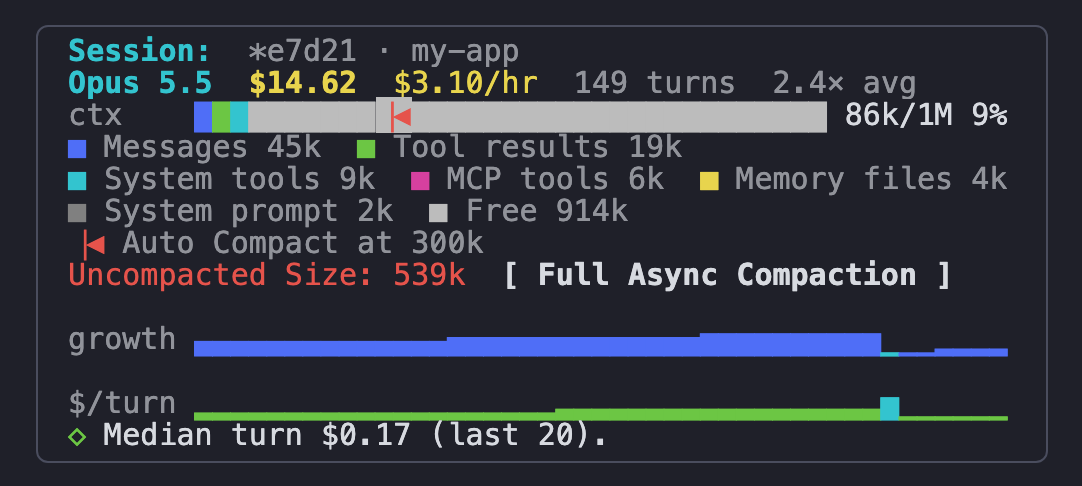
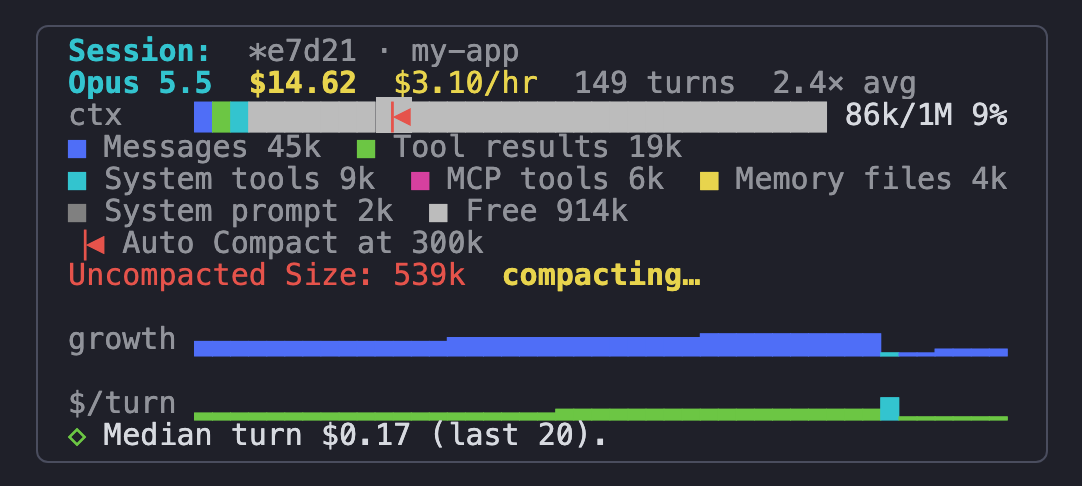
Uncompacted Size: compacting… beside it while a compaction runs, in place of the Full Async Compaction button, whose looping band read as a compaction always running (usage-panel mod 1.20.0)
Burst's burst-session mod compacts Claude Code's own history by itself at
800k; /compact-async-full stays for doing it by hand.

Changed region(s): [[0.4575, 0.5247, 0.8845, 0.6173]]

diff --git a/mods/usage-panel/hooks/register.js b/mods/usage-panel/hooks/register.js
@@ -67,9 +67,7 @@ let up = false
 // It was opened and waits undrawn, on a terminal too narrow for a sidebar
 // nobody asked for: it is up once it is first drawn.
 let waiting = false
-let fullDrawn = false // the Full Async Compaction button was on the last drawing
-let frame = 0 // the shimmer's, across that button's label
-let ticking = null // the shimmer's timer, while the button is drawn
+let compacting = false // a compaction of this session's history is running
 let layout = null // { order, hidden } as the person left it
 let burst = null // { down, mod }: Burst's /api/mod answer; null without Burst
 let burstRaw = ''
@@ -156,6 +154,23 @@ export function register(on) {
       }
     }
     return next(e)
+  })
+
+  // A compaction of the main conversation, from the moment it starts until
+  // it stands or is skipped: "compacting…" beside Uncompacted Size for that
+  // long and no longer. Burst's hand-off at 800k (burst-session) comes
+  // through here as Claude Code's /compact. A precompute installs nothing,
+  // and a subagent's is its own transcript.
+  on('session.compact', async ($, e, next) => {
+    if (e.trigger === 'precompute' || e.agentId) return next(e)
+    compacting = true
+    $.ui.invalidate('ui.render')
+    try {
+      return await next(e)
+    } finally {
+      compacting = false
+      $.ui.invalidate('ui.render')
+    }
   })
 
   // Closed by the person's own close mark or key too: the button above the
@@ -264,17 +279,9 @@ export function register(on) {
         },
       }))
     }
-    // Beside Uncompacted Size, where Claude Code holds half the window or
-    // more: Burst's /compact-async-full, pressed.
-    // A function, so that drawing it is known: the shimmer's timer runs only
-    // while the button is on the sidebar.
-    fullDrawn = false
-    const full = () => {
-      fullDrawn = true
-      shimmerOn($)
-      return Button({ key: 'usage-full-compact', label: FULL_LABEL, onPress: () => fullCompact($), children: shimmer(Text, FULL_LABEL, frame) })
-    }
-    const rows = panel(Box, Text, data, width, now, feedError, layout, extras, burst, limits, extra, full)
+    // Beside Uncompacted Size while a compaction runs, and only then.
+    const busy = compacting ? Text({ color: 'yellow', bold: true, children: [COMPACTING] }) : null
+    const rows = panel(Box, Text, data, width, now, feedError, layout, extras, burst, limits, extra, busy)
     // At the top right, where a close mark is looked for. The button above
     // the prompt brings the sidebar back.
     const top = Box({ flexDirection: 'row', justifyContent: 'flex-end', children: [Button({ key: 'usage-hide', label: 'Hide', role: 'dismiss', onPress: () => hidePane($) })] })
@@ -290,55 +297,7 @@ async function showPane($) {
   $.ui.invalidate('ui.render')
 }
 
-// Burst's /compact-async-full: Claude Code's own history replaced with the
-// summary Burst already wrote, no summary request and no pause. The command
-// is Burst's mod's (burst-session), and says for itself when it has nothing
-// to hand over.
-const FULL_COMMAND = 'compact-async-full'
-const FULL_LABEL = 'Full Async Compaction'
-
-// The button's label with a bright band crossing it, so that it is seen: it
-// is only there when there is something worth pressing it for. `frame` counts
-// the timer's ticks; the band is off the label for SHIMMER_REST of them
-// between crossings.
-const SHIMMER_MS = 120
-const SHIMMER_BAND = 3
-const SHIMMER_REST = 8
-export function shimmer(Text, label, frame) {
-  const head = frame % (label.length + SHIMMER_BAND + SHIMMER_REST)
-  const from = Math.max(0, head - SHIMMER_BAND)
-  const to = Math.min(label.length, head)
-  const base = { color: 'yellow', bold: true }
-  const out = []
-  if (from > 0) out.push(Text({ ...base, children: [label.slice(0, from)] }))
-  if (to > from) out.push(Text({ ...base, inverse: true, children: [label.slice(from, to)] }))
-  if (to < label.length) out.push(Text({ ...base, children: [label.slice(to)] }))
-  return out
-}
-
-// Redraws the sidebar a frame on while the button is drawn, and stops once a
-// frame has passed without it: the sidebar closed, or less held than the
-// button is drawn from.
-function shimmerOn($) {
-  if (ticking) return
-  ticking = $.clock.every(SHIMMER_MS, () => {
-    if (!fullDrawn || !up) {
-      ticking.cancel()
-      ticking = null
-      return
-    }
-    fullDrawn = false
-    frame++
-    $.ui.invalidate('ui.render')
-  })
-}
-async function fullCompact($) {
-  try {
-    await $.command.run({ command: FULL_COMMAND, args: '' })
-  } catch (err) {
-    $.ui.toast('/' + FULL_COMMAND + ' did not run: it is Claude Burst\'s mod\'s command (' + err + ')')
-  }
-}
+export const COMPACTING = 'compacting…'
 
 // Whether the sidebar is drawn, from what $.ui.open answered: not when it
 // waits undrawn, on a terminal too narrow for one nobody asked for.
@@ -698,7 +657,7 @@ const TIER = { green: 'green', yellow: 'yellow', red: 'red', purple: 'magenta', 
 const ACCENT = 'cyan'
 const BLOCKS = ' ▁▂▃▄▅▆▇█'
 
-export function panel(Box, Text, d, width, now, feedError, layout, extras = [], burst = null, limits = null, extra = null, full = null) {
+export function panel(Box, Text, d, width, now, feedError, layout, extras = [], burst = null, limits = null, extra = null, busy = null) {
   const T = (children, props = {}) => Text({ ...props, children: Array.isArray(children) ? children : [children] })
   const rows = []
   if (!d) {
@@ -731,7 +690,7 @@ export function panel(Box, Text, d, width, now, feedError, layout, extras = [], 
   // one ends and the next starts is plain. The border and padding take 4.
   const IW = Math.max(26, W - 4)
   const draw = {
-    session: () => [...sessionSection(Box, T, d, IW, burst, extra && extra.warn, full), ...notes('session'), ...notes('burst')],
+    session: () => [...sessionSection(Box, T, d, IW, burst, extra && extra.warn, busy), ...notes('session'), ...notes('burst')],
     mac: () => {
       const foot = [...footer(Box, T, d), ...burstRows(Box, T, burst), ...extras]
       return foot.length > 0 ? [heading(T, 'This Mac'), ...foot] : []
@@ -793,7 +752,7 @@ function colourer() {
 
 // ---- this session
 
-function sessionSection(Box, T, d, W, burst, warnPct, full) {
+function sessionSection(Box, T, d, W, burst, warnPct, busy) {
   const s = d.session || {}
   // A long folder loses its start, not its end: the end is what tells two
   // repos apart.
@@ -825,7 +784,7 @@ function sessionSection(Box, T, d, W, burst, warnPct, full) {
   // compaction lines marked. Otherwise the
   // panel's gauge against the model's window, its colour thresholds as ticks.
   if (sent) {
-    out.push(...sentBar(Box, T, sent, W, s.win || 0, warnPct, full))
+    out.push(...sentBar(Box, T, sent, W, s.win || 0, warnPct, busy))
     if (s.compacting) out.push(T('  ⟳ a summary is ready: the next prompt compacts', { color: 'cyan' }))
     else if (sent.state === 'warning') out.push(T('! Close to the limit: ' + limitLabel(sent) + '.', { color: 'yellow', wrap: 'wrap' }))
     // "compacted" is not said: it stays for the rest of the session and the
@@ -938,7 +897,7 @@ function limitNote(s) {
 // not the room there is), a legend under it, and
 // what Claude Code itself still holds when that is more. Without a window
 // the bar is against the compaction limit alone.
-function sentBar(Box, T, s, W, win, warnPct, full) {
+function sentBar(Box, T, s, W, win, warnPct, busy) {
   const limit = compactAt(s)
   const warn = limit ? Math.round((limit * (warnPct > 0 && warnPct < 100 ? warnPct : 80)) / 100) : 0
   const whole = win > limit && win >= s.context
@@ -1011,8 +970,7 @@ function sentBar(Box, T, s, W, win, warnPct, full) {
   const held = Math.max(s.raw || 0, s.context || 0)
   if (held > 0) {
     const size = T('Uncompacted Size: ' + k(held), { color: heldColour(s, held) })
-    // The button only where there is enough held for it to be worth a press.
-    if (full && win > 0 && held >= win * FULL_FROM) out.push(Box({ flexDirection: 'row', flexWrap: 'wrap', columnGap: 2, children: [size, typeof full === 'function' ? full() : full] }))
+    if (busy) out.push(Box({ flexDirection: 'row', flexWrap: 'wrap', columnGap: 2, children: [size, busy] }))
     else out.push(size)
   }
   return out
@@ -1041,10 +999,6 @@ export function share(amounts, width) {
   }
   return out
 }
-
-// The share of the model's window Claude Code must hold before the Full
-// Async Compaction button is drawn beside Uncompacted Size.
-const FULL_FROM = 0.5
 
 // Where Burst's mod (burst-session, HANDOFF_AT) compacts a session opened
 // again with the summary Burst already wrote.

diff --git a/mods/usage-panel/tests/usage-panel.test.ts b/mods/usage-panel/tests/usage-panel.test.ts
@@ -1,5 +1,5 @@
 import { expect, mock, test } from 'claude-code/testing'
-import { axis, insights, k, layoutOf, limitsOf, modelName, money, pie, planOf, relayout, share, shimmer, weekGone, whyDear } from '../hooks/register.js'
+import { axis, insights, k, layoutOf, limitsOf, modelName, money, pie, planOf, relayout, share, weekGone, whyDear } from '../hooks/register.js'
 
 const PANE = {
   plugin: 'usage-panel',
@@ -1253,48 +1253,29 @@ test('while the sidebar is closed the line under the prompt names the command th
   expect(tails[tails.length - 1]).toBeUndefined()
 })
 
-test('Full Async Compaction is beside Uncompacted Size from half the window held, and runs Burst\'s /compact-async-full', async ($, on) => {
-  const clock = stubs(on, [doc({ burst: BURST })])
-  // 620k held of a 1M window, Burst sending 70k.
-  let answer: object = mod()
-  on('http.fetch', () => ({ value: { status: 200, ok: true, headers: {}, text: JSON.stringify(answer) } }))
-  const ran: { command: string }[] = []
-  on('command.run', ($, e) => { ran.push(e); return { value: {} } })
+test('"compacting…" is beside Uncompacted Size while a compaction runs and only then, with no button at any size', async ($, on) => {
+  stubs(on, [doc({ burst: BURST })])
+  // 620k held of a 1M window, Burst sending 70k: more than half the window,
+  // where a button used to be drawn.
+  on('http.fetch', () => ({ value: { status: 200, ok: true, headers: {}, text: JSON.stringify(mod()) } }))
+  let done: (v: unknown) => void = () => {}
+  on('session.compact', () => new Promise((r) => { done = r }))
   await start($)
   let ui = await $.ui.mount(PANE)
   expect(await ui.find({ type: 'Text', text: 'Uncompacted Size: 620k' })).toBeDefined()
-  expect(await ui.find({ key: 'usage-full-compact' })).toBeDefined()
-  await ui.press({ key: 'usage-full-compact' })
-  expect(ran.map((e) => e.command)).toEqual(['compact-async-full'])
-  // A band crosses the label while it is drawn: three ticks on, its first
-  // three letters.
-  expect(await ui.find({ type: 'Text', text: 'Full Async Compaction' })).toBeDefined()
-  await clock.advance(360)
-  expect(await ui.find({ type: 'Text', text: 'Ful' })).toBeDefined()
-  expect(await ui.find({ type: 'Text', text: 'l Async Compaction' })).toBeDefined()
-  await ui.press({ key: 'usage-full-compact' })
-  expect(ran.length).toBe(2)
+  expect(await ui.find({ type: 'Text', text: 'compacting…' })).toBeUndefined()
+  expect(await ui.find({ type: 'Text', text: 'Full Async Compaction' })).toBeUndefined()
   await ui.unmount()
 
-  // Under half the window: the line alone.
-  answer = mod({ session: { session: 'S', context: 70_000, state: 'ok', compact_at: 300_000, raw: 480_000 } })
-  await clock.advance(5000)
+  const running = $.session.compact({ trigger: 'manual', messages: [{ role: 'user', text: 'hi', toolUses: [] }] })
+  await new Promise((r) => setTimeout(r, 0))
   ui = await $.ui.mount(PANE)
-  expect(await ui.find({ type: 'Text', text: 'Uncompacted Size: 480k' })).toBeDefined()
-  expect(await ui.find({ key: 'usage-full-compact' })).toBeUndefined()
-})
+  expect(await ui.find({ type: 'Text', text: 'compacting…' })).toBeDefined()
+  await ui.unmount()
 
-test('the shimmer is the whole label every frame, with a band of three crossing it and a rest between crossings', () => {
-  const T = (p) => p
-  const label = 'Full Async Compaction'
-  const lit = (f) => shimmer(T, label, f).filter((t) => t.inverse).map((t) => t.children[0]).join('')
-  for (let f = 0; f < 80; f++) expect(shimmer(T, label, f).map((t) => t.children[0]).join('')).toBe(label)
-  expect(lit(0)).toBe('')
-  expect(lit(1)).toBe('F')
-  expect(lit(3)).toBe('Ful')
-  expect(lit(21)).toBe('ion')
-  expect(lit(23)).toBe('n')
-  // Off the label until the next crossing, 32 frames after the first.
-  for (let f = 24; f <= 32; f++) expect(lit(f)).toBe('')
-  expect(lit(33)).toBe('F')
+  done({ messages: [{ role: 'user', text: 'summary', toolUses: [] }] })
+  await running
+  ui = await $.ui.mount(PANE)
+  expect(await ui.find({ type: 'Text', text: 'compacting…' })).toBeUndefined()
+  await ui.unmount()
 })

diff --git a/README.md b/README.md
@@ -54,7 +54,7 @@ This came out of a simple problem: AI coding agents burn tokens and money per tu
 > What needs Claude Burst, and is left out without it:
 > - the limit rows in **Plan Utilisation** and the warning as a limit gets close;
 > - the **Pauseless Compaction**, **Compaction Strategies** and **Overflow to Secondary** savings tables;
-> - the context bar by part, the compaction line on it, and `Uncompacted Size` with its **Full Async Compaction** button;
+> - the context bar by part, the compaction line on it, and `Uncompacted Size` with `compacting…` beside it while a compaction runs;
 > - `Proxy State`, the dashboard button and the `*** Async Compaction ... ***` rows in Turns.
 >
 > Everything else (the session, its turns, today, the week, projects) is read from Claude Code's own transcripts.
@@ -127,15 +127,15 @@ Colours mean the same thing everywhere: green is normal, yellow is raised, red i
 <table>
 <tr>
 <td valign="top"><img src="docs/card-session-intelligent.png" alt="The top of the sidebar with its Hide button, and a Session card whose limit reads Auto Compact at 240k (Intelligent) in cyan" width="400"></td>
-<td valign="top"><img src="docs/card-session-held.png" alt="A Session card with Uncompacted Size: 539k in red and a Full Async Compaction button beside it" width="400"></td>
+<td valign="top"><img src="docs/card-session-held.png" alt="A Session card with Uncompacted Size: 539k in red and compacting… beside it" width="400"></td>
 </tr>
 <tr>
 <td align="center"><sub><code>(Intelligent)</code>: Burst chose this limit for the repository</sub></td>
-<td align="center"><sub><b>Full Async Compaction</b>, from half the window held</sub></td>
+<td align="center"><sub><code>compacting…</code>, while a compaction runs</sub></td>
 </tr>
 </table>
 
-**Full Async Compaction** is beside `Uncompacted Size` once Claude Code holds half the model's window or more (500k of 1M). It runs Claude Burst's `/compact-async-full`: Claude Code's own history is replaced with the summary Burst already wrote, with no summary request and no pause, so `Uncompacted Size` comes down to what Burst sends. A bright band crosses the button's label while it is drawn, so that it is seen. It is Burst's command, from its `burst-session` mod: where Burst holds no summary of the session yet, or its hand-off is turned off on the dashboard, Burst says so and nothing is compacted.
+**`compacting…`** is beside `Uncompacted Size` while a compaction of this session's history is running, from the moment it starts until it stands or is skipped, and at no other time. There is no button: Claude Burst's `burst-session` mod compacts Claude Code's own history by itself once it holds 800k, with the summary Burst already wrote (no summary request, no pause), and `/compact-async-full` does it by hand at any size. A sidebar that drew a button from 500k, with a band crossing its label, read as a compaction always running (removed in mod 1.20.0).
 
 #### The context bar without Claude Burst
 
@@ -360,7 +360,7 @@ What to look for:
 
 - **The ctx bar is Burst's.** It is the context Burst sends after its own compaction, by part, against the limit it compacts at, read from Burst's dashboard every 5 seconds. Claude Code's own figure does not know a compaction happened, which is what the `Claude Code holds 299k` line is for.
 - **The three marker rows** come from Burst's `~/.config/claude-burst/metrics.jsonl`. Each is drawn between the two turns it happened between. A Pending whose Finished landed before another turn ran is not drawn: the Finished says it all.
-- **`*** Async Full Compaction ***`** is a fourth marker row, for Burst's `/compact-async-full` (the Full Async Compaction button). Claude Code runs and echoes that command as `/compact`, so this row is where the session's history says which it was. It comes from the session's own transcript: a compaction whose summary Burst wrote.
+- **`*** Async Full Compaction ***`** is a fourth marker row, for Burst's `/compact-async-full` and its hand-off at 800k. Claude Code runs and echoes that command as `/compact`, so this row is where the session's history says which it was. It comes from the session's own transcript: a compaction whose summary Burst wrote.
 - **The blue row with a negative delta** is the first turn sent with the summary. That turn's cache hit is low and its cost is up, because the smaller context is written to the cache once. It is the expected price of the compaction, so it never colours the row as a spike.
 - **Notices.** Where Burst's own `burst-session` mod is installed, it shows each step as a toast inside the session. Without it, on Ghostty, a small floating notice reads "Async Compaction In Progress", then "Async Compaction Finished" (`CLAUDE_PANEL_COMPACTION_OVERLAY`).
 
